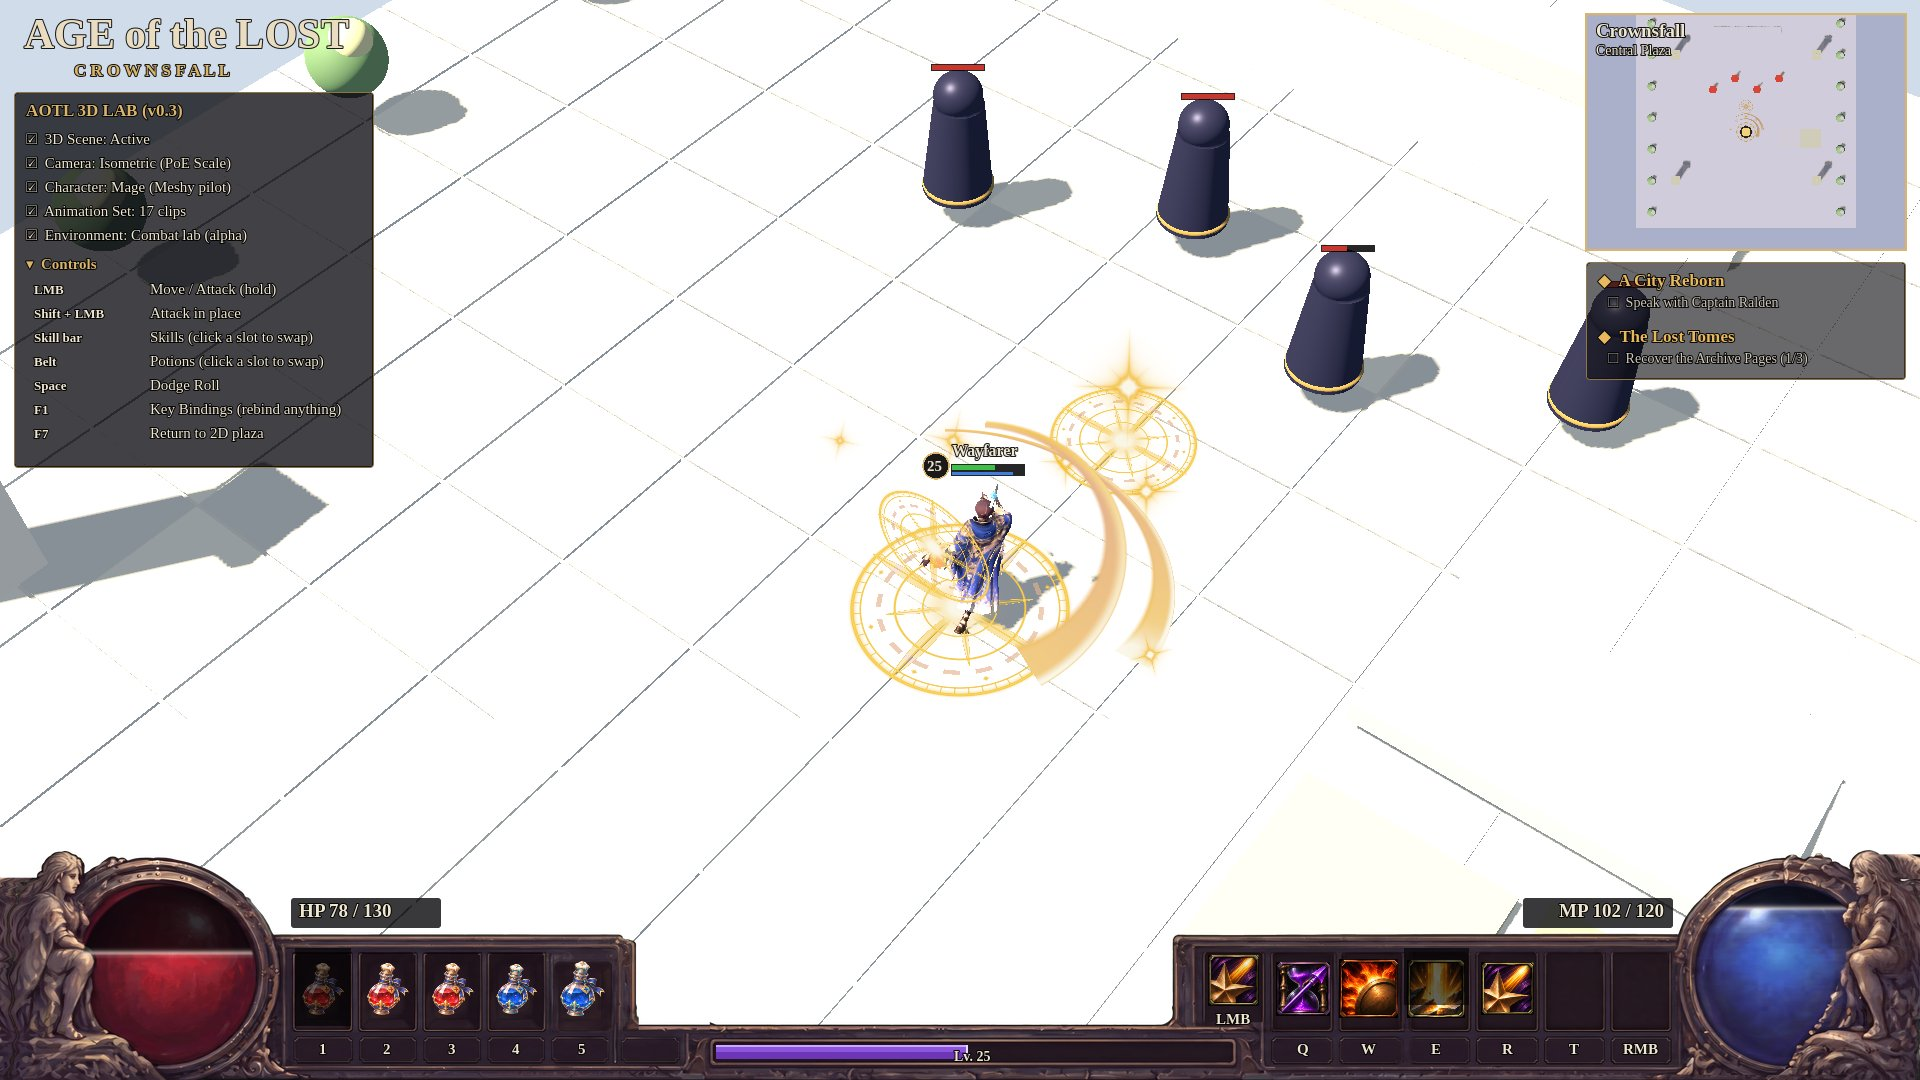
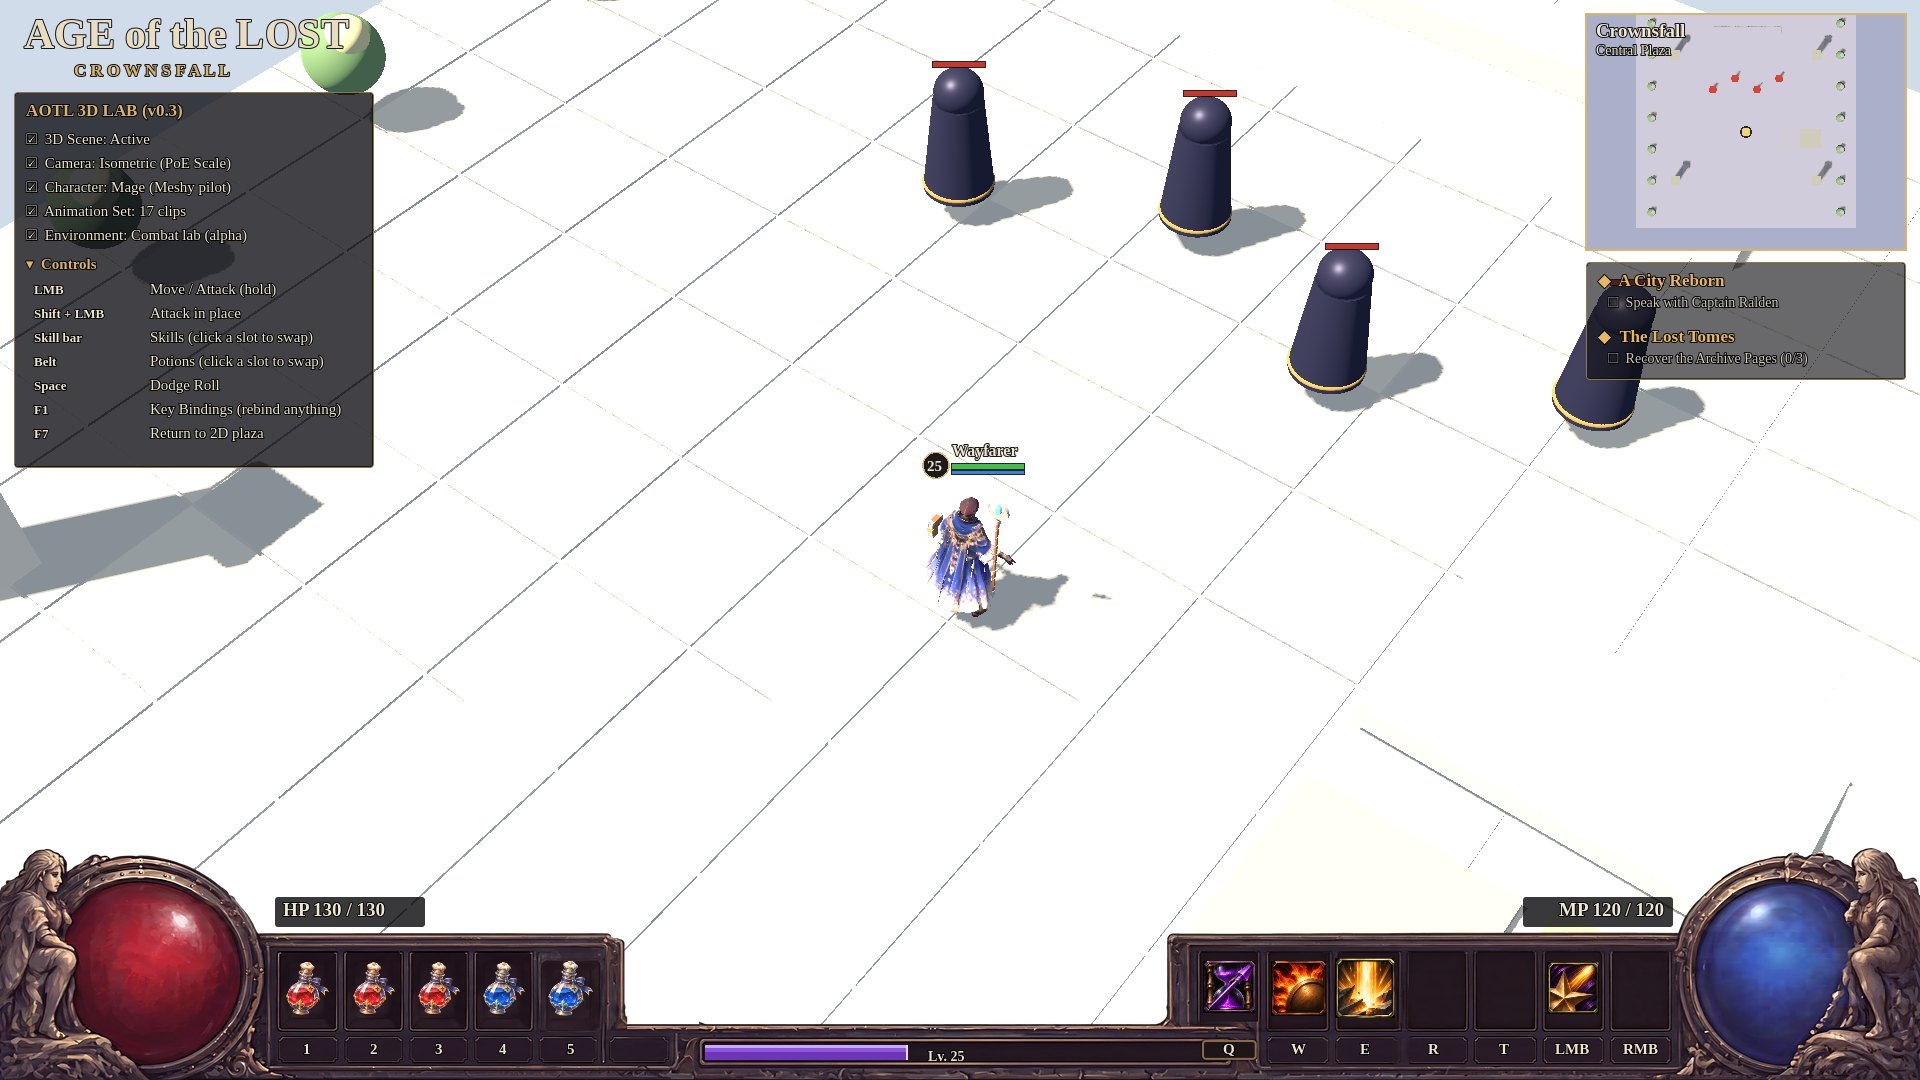
ARPG HUD: real statue edges (no mirrored fill), skill bar Q W E R T LMB RMB
Owner feedback: mirrored edge fill looked wavy and cheap; skill order must be
QWERT then LMB, RMB. Outer columns are cropped so the painted statues run off
the screen edge; seven wells bound per action; LMB well holds the primary
attack. Tests: arpg_hud 69/69, regression 994/994.

Claude-Session: https://claude.ai/code/session_01HXUneWBipxvB69FSMXEcEC

diff --git a/game/crownsfall_lootslice/tools/key_hud_full.py b/game/crownsfall_lootslice/tools/key_hud_full.py
@@ -28,18 +28,10 @@ solid = (a > 0.5).astype(np.uint8)
 n, lab, st, _ = cv2.connectedComponentsWithStats(solid)
 keep = np.zeros(n, bool); keep[1:] = st[1:, cv2.CC_STAT_AREA] > 20000
 a = np.where(keep[lab] | (a < 0.5) & (cv2.dilate(keep[lab].astype(np.uint8), np.ones((9, 9))) > 0), a, 0.0)
-# outer edges: mirror the statues' stone outward so every row they occupy reaches the image edge
-gap = 220
-for y in range(H):
-    xs = np.where(a[y] > 0.5)[0]
-    if not len(xs):
-        continue
-    if 0 < xs[0] <= gap:
-        x0 = xs[0]; src = np.clip(2 * x0 - np.arange(x0), 0, W - 1)
-        rgb[y, :x0] = rgb[y, src]; a[y, :x0] = 1.0
-    if W - 1 - gap <= xs[-1] < W - 1:
-        x1 = xs[-1]; m = W - 1 - x1; src = np.clip(2 * x1 - (x1 + 1 + np.arange(m)), 0, W - 1)
-        rgb[y, x1 + 1:] = rgb[y, src]; a[y, x1 + 1:] = 1.0
+# outer edges: NO synthetic fill (mirroring stone/hair outward looked wavy - owner feedback). Instead the outer few
+# columns are cropped so each statue's body runs off the screen edge, like frame art in D4 / PoE; the space above
+# the statues' heads stays open, as in the mockup.
+CROP_L, CROP_R = 112, 16
 # bottom edge: fill any keyed gaps in the last rows from the row above, so the bar sits on the screen edge
 for y in range(H - 24, H):
     hole = a[y] < 0.95
@@ -50,32 +42,38 @@ SX0, SX1, CLEAN = 3896, 4330, 4760
 a[:1040, SX0:SX1] = 0.0
 rgb[1040:1125, SX0:SX1] = rgb[1040:1125, CLEAN:CLEAN + (SX1 - SX0)]
 a[1040:1125, SX0:SX1] = a[1040:1125, CLEAN:CLEAN + (SX1 - SX0)]
-rgba = np.dstack([np.clip(rgb, 0, 1), a])
+rgba = np.dstack([np.clip(rgb, 0, 1), a])[:, CROP_L:W - CROP_R]
 img = Image.fromarray((rgba * 255).astype(np.uint8), "RGBA")
-k = 1920.0 / W
-img.resize((1920, round(H * k)), Image.LANCZOS).save(f"{OUT}/hud_full.png")
-img.resize((3840, round(H * k * 2)), Image.LANCZOS).save(f"{OUT}/hud_full@2x.png")
+from PIL import ImageFilter
+k = 1920.0 / (W - CROP_L - CROP_R)
+def save(w, path):
+    out = img.resize((w, round(H * k * w / 1920)), Image.LANCZOS)
+    rgb_s = out.convert("RGB").filter(ImageFilter.UnsharpMask(radius=1.2, percent=70, threshold=2))   # crisper detail
+    out = Image.merge("RGBA", (*rgb_s.split(), out.split()[3]))
+    out.save(path)
+save(1920, f"{OUT}/hud_full.png")
+save(3840, f"{OUT}/hud_full@2x.png")
 
 S = lambda v: round(v * k, 2)
-box = lambda x0, x1, y0, y1: [S(x0), S(y0), S(x1 - x0), S(y1 - y0)]
+SX = lambda v: round((v - CROP_L) * k, 2)
+box = lambda x0, x1, y0, y1: [SX(x0), S(y0), S(x1 - x0), S(y1 - y0)]
 WELL_Y, PLATE_Y = (606, 1103), (1154, 1298)
 potion_x = [(1797, 2140), (2197, 2535), (2591, 2929), (2983, 3319), (3374, 3737)]
-# the skill panel's first well sits above the end of the XP groove and has no key plate: it shows the primary
-# attack (display only); the six wells with plates are the skill slots
-primary_x = (7349, 7703)
-skill_x = [(7763, 8135), (8150, 8556), (8563, 8959), (9014, 9374), (9430, 9780), (9837, 10183)]
+# seven skill wells, left to right: Q W E R T LMB RMB (owner layout). The first well has no painted key plate (the
+# XP groove runs under it), so its plate is drawn by the HUD at the same height as the others.
+skill_x = [(7349, 7703), (7763, 8135), (8150, 8556), (8563, 8959), (9014, 9374), (9430, 9780), (9837, 10183)]
 meta = {
     "source": "Higgsfield nano_banana_2_1 4K 8:1, R1 variant A (job c70f970d-7b8d-43f4-9362-e5890f3020d9), keyed by "
               "tools/key_hud_full.py. Coordinates in 1920-wide pixels; scale by screen_width / 1920.",
     "size": [1920, round(H * k)],
-    "disc_left": [S(1020), S(757), S(541), S(541)],
-    "disc_right": [S(10899), S(764), S(549), S(549)],
+    "disc_left": [SX(1020), S(757), S(541), S(541)],
+    "disc_right": [SX(10899), S(764), S(549), S(549)],
     "potion_wells": [box(x0, x1, *WELL_Y) for x0, x1 in potion_x],
     "potion_plates": [box(x0, x1, *PLATE_Y) for x0, x1 in potion_x],
-    "skill_wells": [box(x0, x1, *WELL_Y) for x0, x1 in skill_x],
+    "skill_wells": [box(x0, x1, WELL_Y[0], 1082 if i == 0 else WELL_Y[1]) for i, (x0, x1) in enumerate(skill_x)],
     "skill_plates": [box(x0, x1, *PLATE_Y) for x0, x1 in skill_x],
-    "primary_well": box(primary_x[0], primary_x[1], WELL_Y[0], 1082),
-    "xp_groove": box(4349, 7521, 1176, 1302),
+    "drawn_plates": [0],
+    "xp_groove": box(4349, 7300, 1176, 1302),
     "panel_top_left": S(521), "panel_top_right": S(518),
 }
 json.dump(meta, open(f"{OUT}/hud_full.json", "w"), indent=1)

diff --git a/game/crownsfall_lootslice/docs/ARPG_HUD_QA_2026-11-20.md b/game/crownsfall_lootslice/docs/ARPG_HUD_QA_2026-11-20.md
@@ -119,3 +119,12 @@ Owner: "it looks like there are 3 elements … you can clearly see where the art
 - Previous three-piece assets remain in the repo for reference but are no longer used by the HUD.
 - Tests: arpg_hud 67/67 (one-piece, full width, bottom edge, solid edges, groove placement, equal globes);
   mage 83/83; knight 29/29; armed knight 41/41; regression 994/994.
+
+## Revision 10 (owner: circled statue edges wavy/cheap; skill bar must read Q W E R T LMB RMB)
+- Removed the mirrored stone/hair fill at the outer edges (it produced the wavy artefacts). The outer 112/16 source
+  columns are cropped instead, so each statue's real painted body runs off the screen edge; mild unsharp mask.
+- Skill bar: seven wells Q W E R T LMB RMB, each well bound to an action (`SLOT_ACTIONS`), so rebinding never moves
+  wells. The LMB well holds the primary attack (swappable, drives click-an-enemy attacks).
+- Known limit: the painted art has no key plate under its first well (the XP groove runs there), so the Q plate is
+  drawn by code over the groove's end; a regenerated bar with seven plated wells is the proper fix (quoted).
+- Tests: arpg_hud 69/69 (adds Q W E R T LMB RMB order); regression 994/994.
